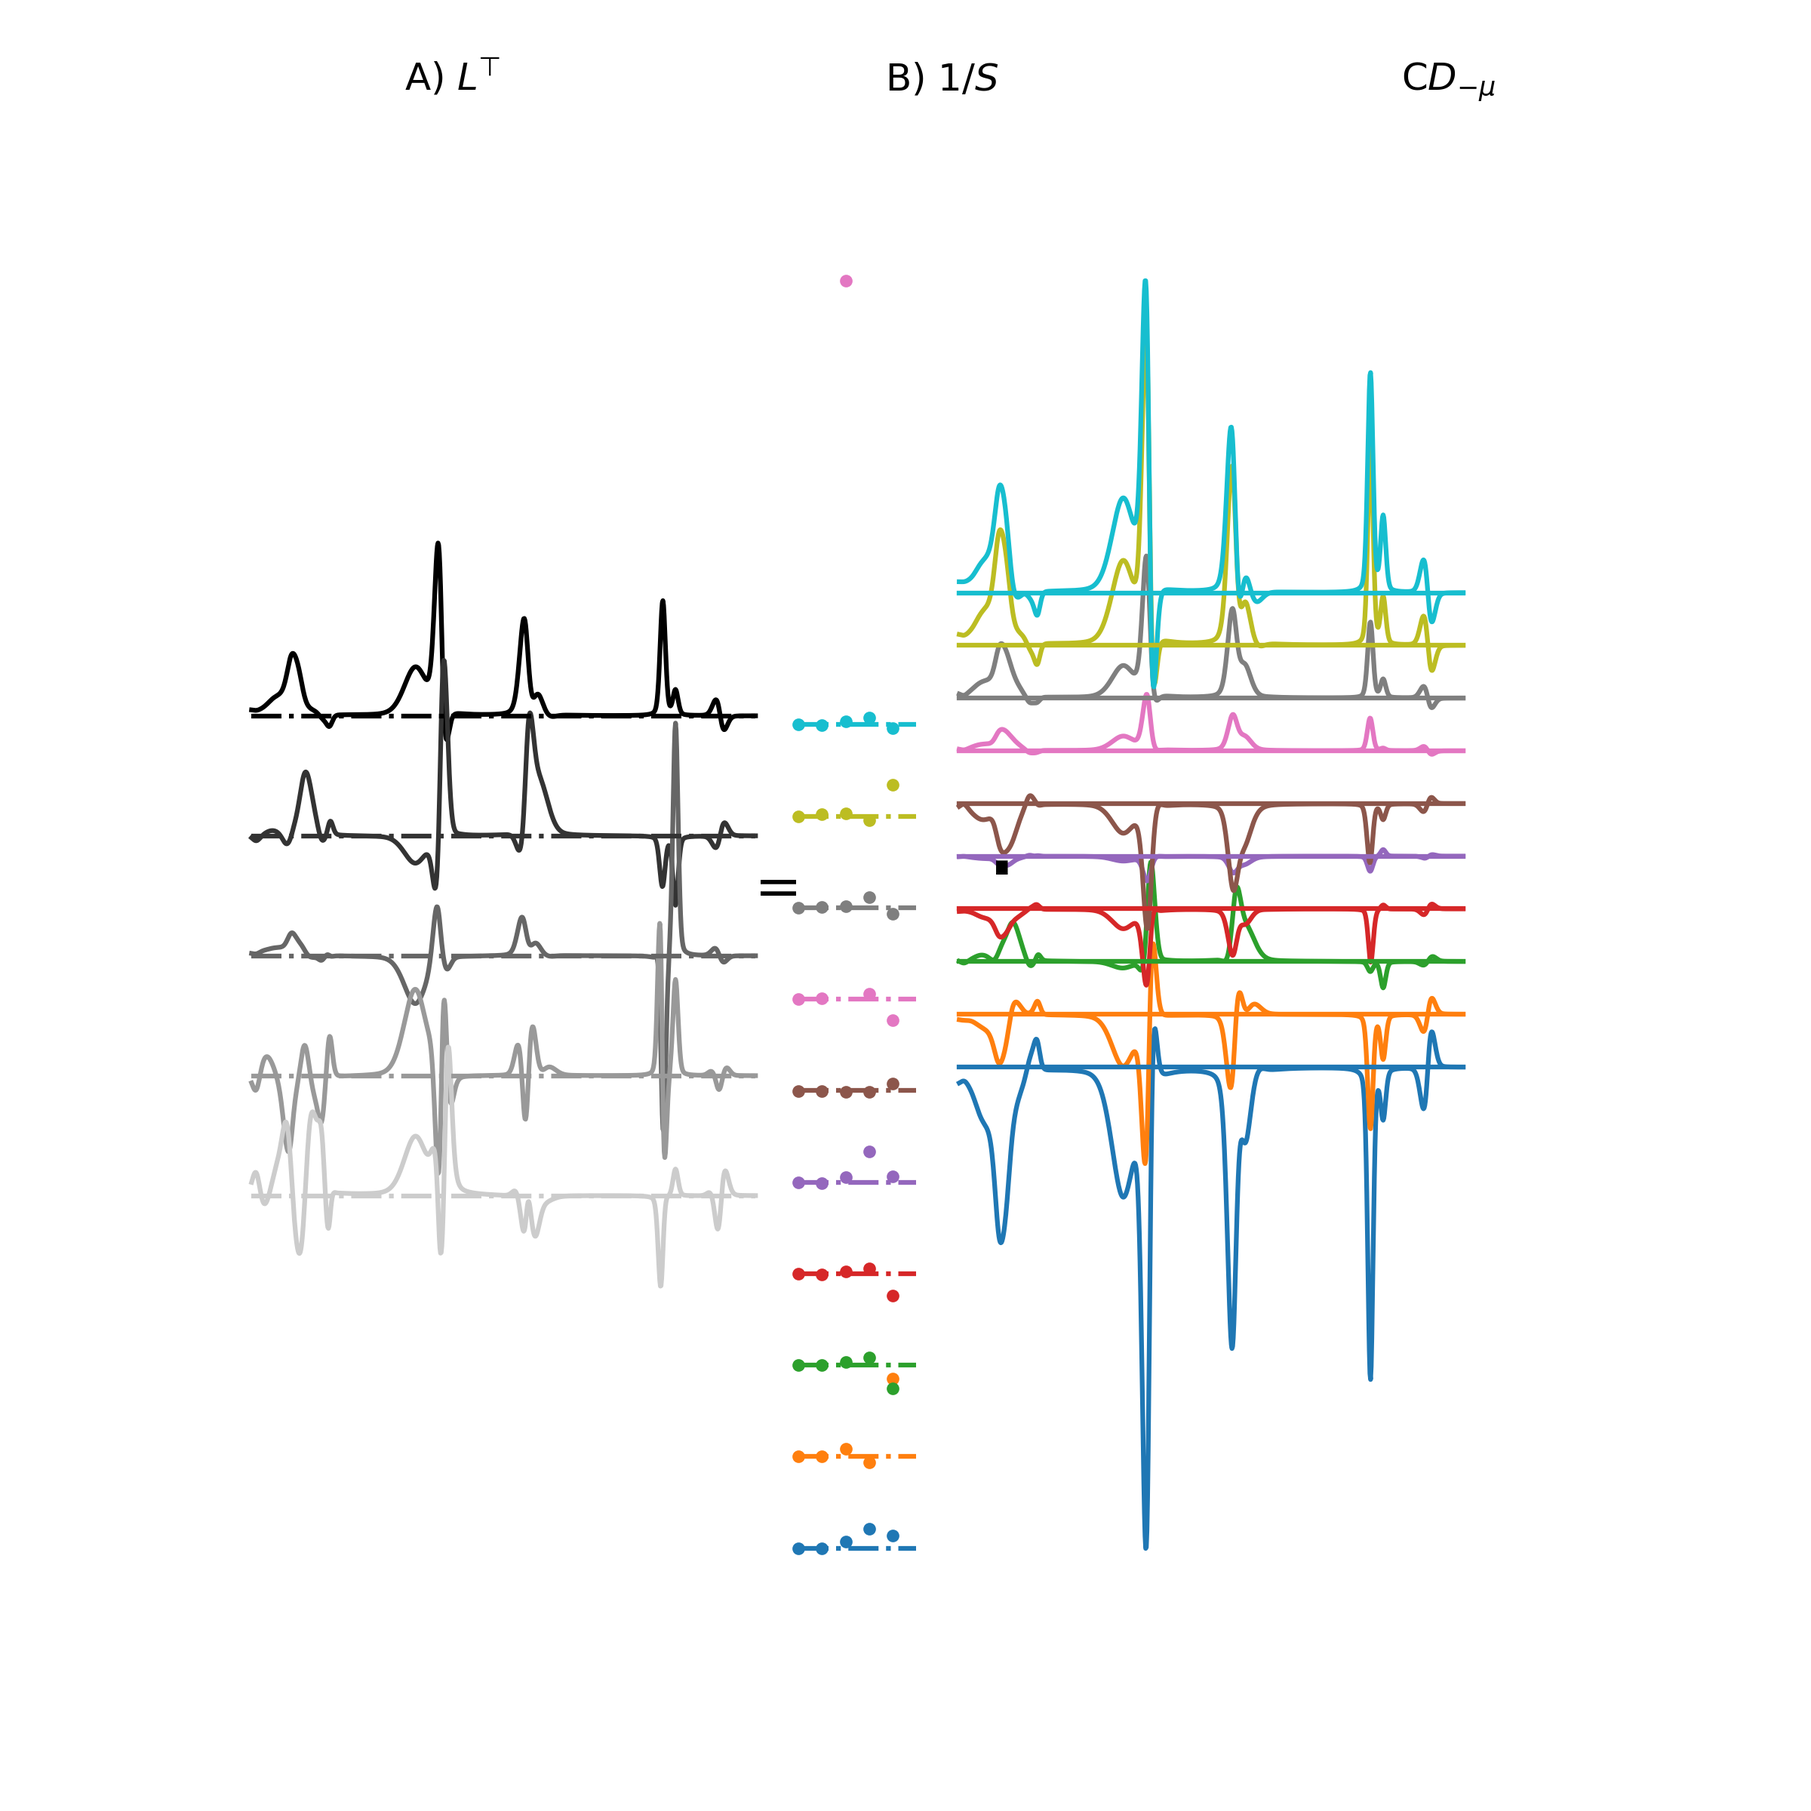
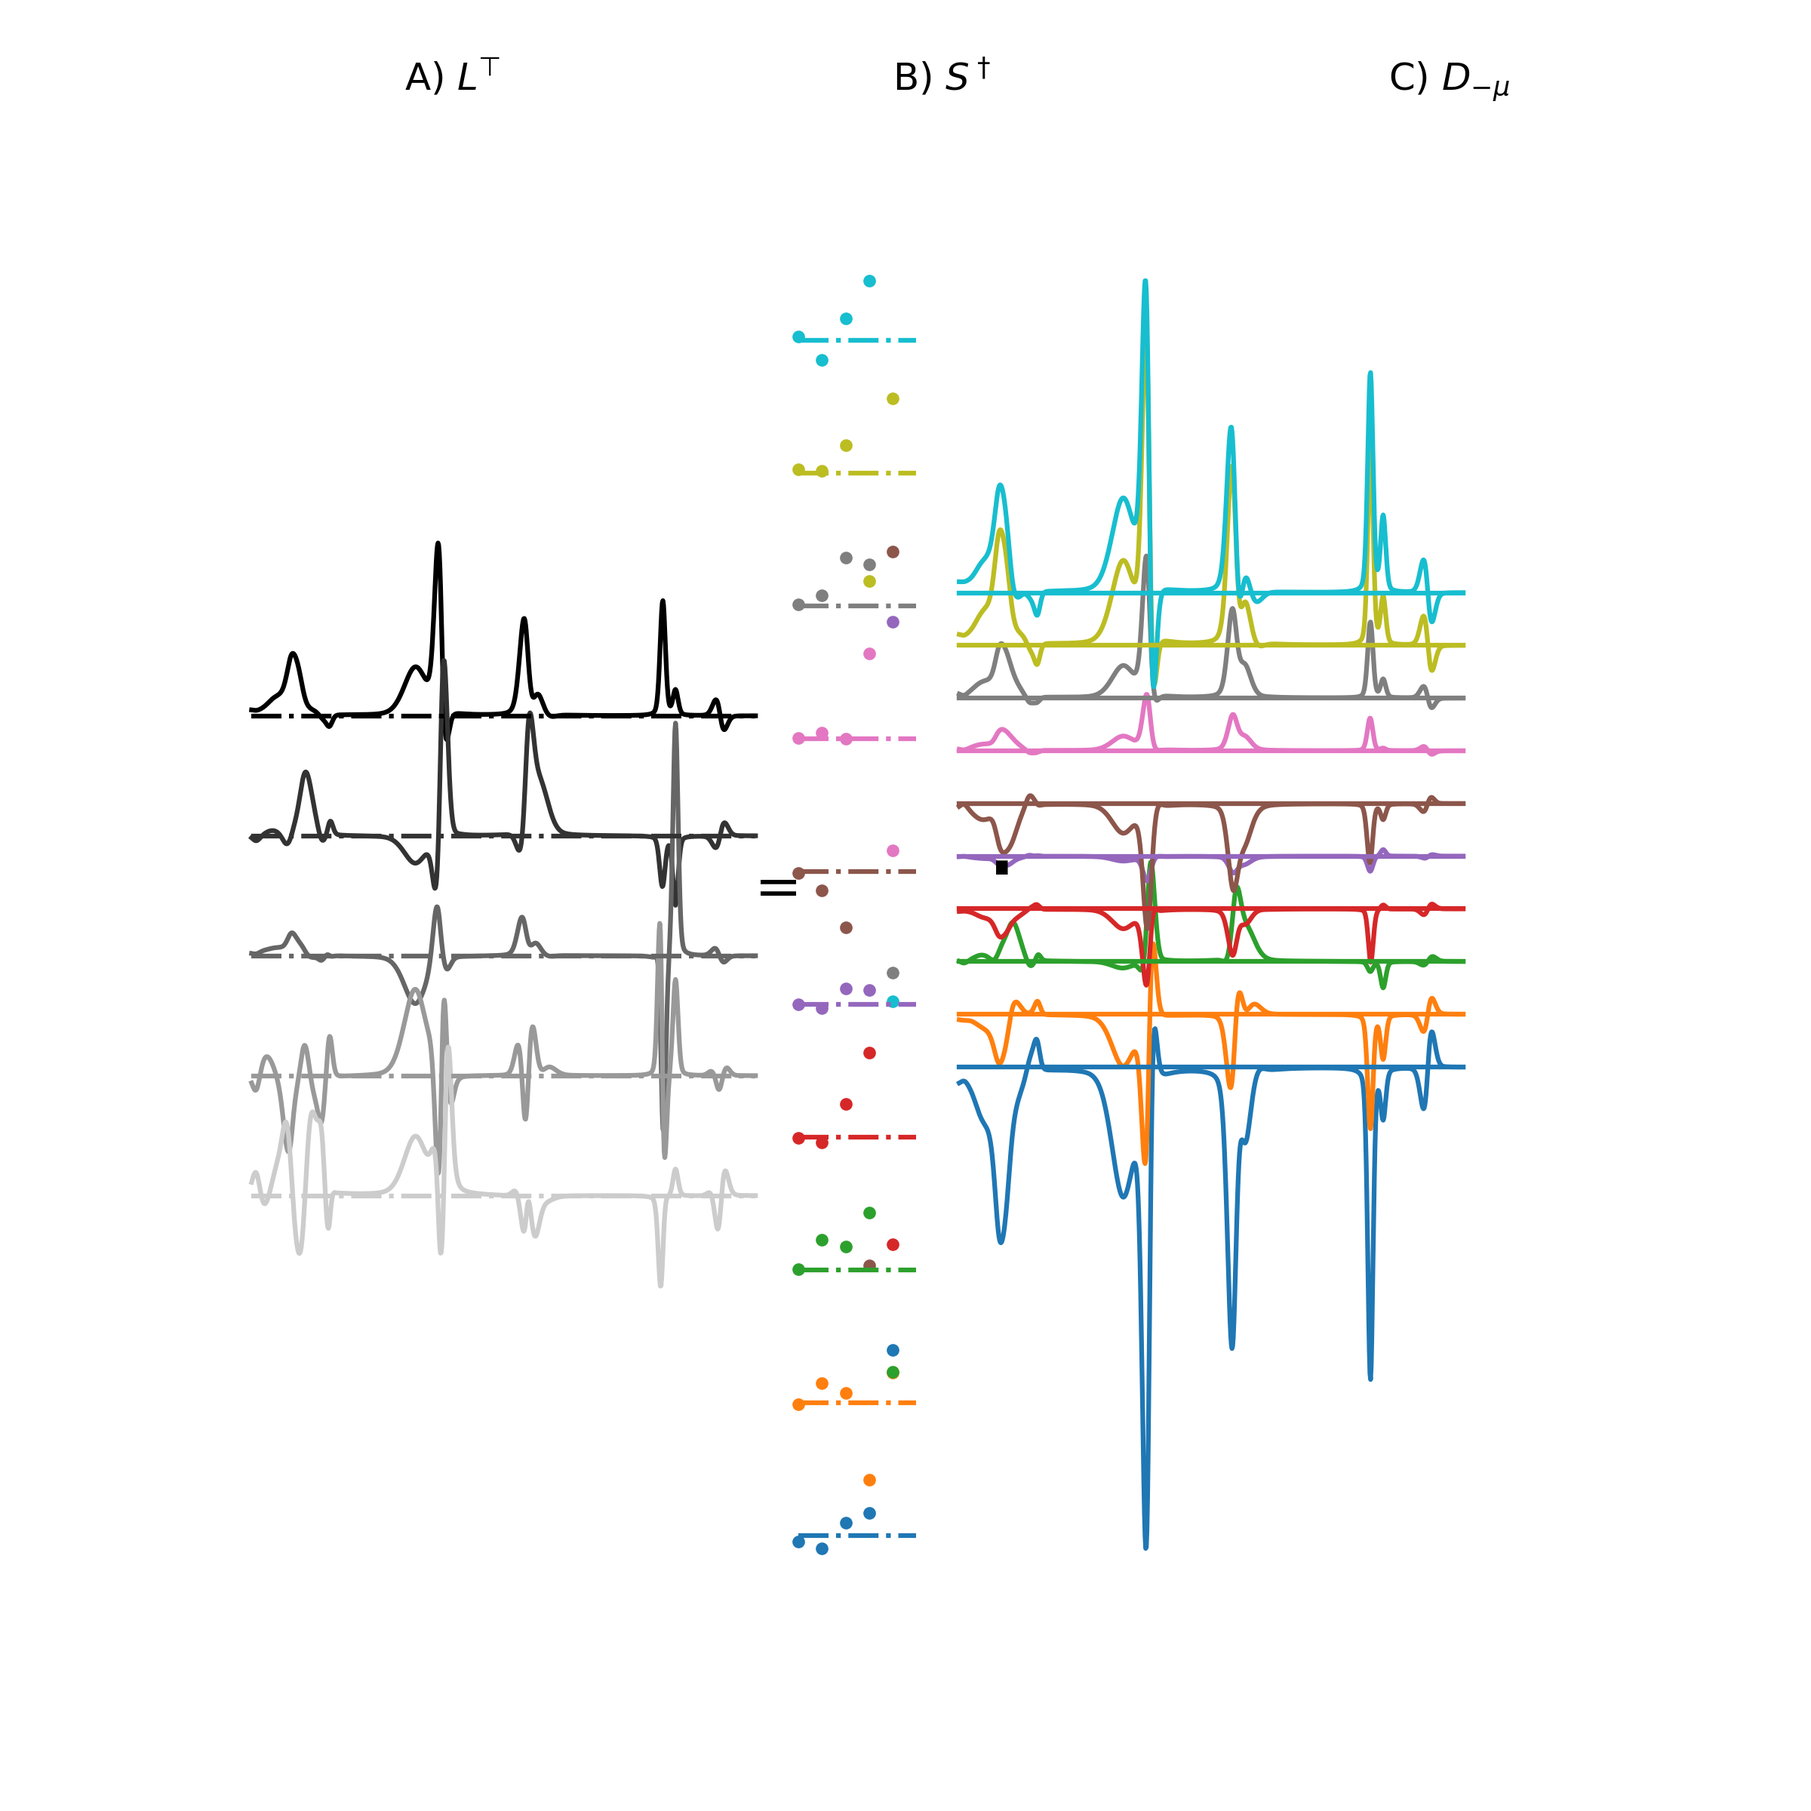
Updated lsdi figure as per trello. Now a function in the NIPALs class.

diff --git a/src/local_nipals.py b/src/local_nipals.py
@@ -99,6 +99,7 @@ class nipals:
         self.mConS = np.copy(self.pCon)
         self.optSF = np.empty(self.N_PC)
         self.optSF[:] = np.nan
+        self.Eigenvalue = np.copy(self.optSF)
         
         self.fig_Size = [8,8]
         self.fig_Resolution = 300
@@ -378,6 +379,7 @@ class nipals:
             self.rE[iPC + 1, :] = np.sum(
                 self.r[iPC + 1] ** 2, 1
             )  # calculate residual variance
+            self.Eigenvalue[iPC] = ml**2 #store eigenvalue (square of norm)
             self.prepare_Data()
             
     def prepare_Data(self):
@@ -398,8 +400,8 @@ class nipals:
         self.LEigenvectors4plot = (LEigenvectors4plot.transpose() + LEig_spacing).transpose()
         self.LEig0lines = np.tile([LEig_spacing],(2,1))
 
-        iLEigenvectors4plot = 1/self.LEigenvector[self.fig_k,:]
-        iLEigenvectors4plot = iLEigenvectors4plot[:,self.fig_i]
+        iLEigenvectors4plot = self.LEigenvector[self.fig_k,:]
+        iLEigenvectors4plot = iLEigenvectors4plot[:,self.fig_i]/self.Eigenvalue[self.fig_i]**0.5
         iLEig_spacing = (np.arange(np.shape(self.fig_k)[0]))*(np.mean(np.max(iLEigenvectors4plot,axis=1))*1)
         self.iLEigenvectors4plot = (iLEigenvectors4plot.transpose() + iLEig_spacing).transpose()
         self.iLEig0lines = np.tile([iLEig_spacing],(2,1))
@@ -537,7 +539,7 @@ class nipals:
         
         
         axDSLT[v_Ord[0]].annotate(
-            sub_Fig[v_Ord[0]]+"$D_{-\mu}$",
+            sub_Fig[v_Ord[0]]+") $D_{-\mu}$",
             xy=(txt_Positions[0]),
             xytext=(txt_Positions[0]),
             textcoords="figure fraction",
@@ -555,7 +557,7 @@ class nipals:
             horizontalalignment="center",
         )
         if arrangement == "LTSD": 
-            s_Str = sub_Fig[v_Ord[1]]+") $1/S$"
+            s_Str = sub_Fig[v_Ord[1]]+") $S^\dagger$"
         else:
             s_Str = sub_Fig[v_Ord[1]]+") $S$"
         axDSLT[v_Ord[1]].annotate(
@@ -1137,6 +1139,172 @@ class nipals:
 #        plt.show()
         plt.close()
         
+    def figure_lsdi( self , iPC ):
+        ###################        START lsdiLEigenvectorEqn          #######################
+        # FIGURE for the ith REigenvector equation Li = S^\daggeri*D
+        if iPC is None:
+            iPC = self.fig_i[0]+1 #internal list is python index so need to add 1 for compatibility
+            print('No PC specified for vector figure (figure_dsli). Defaulting to first PC used in matrix figures')
+        figlsdi, axlsdi = plt.subplots(1, 6, figsize=self.fig_Size)
+        axlsdi[0] = plt.subplot2grid((1, 21), (0, 0), colspan=1)
+        axlsdi[1] = plt.subplot2grid((1, 21), (0, 1), colspan=6)
+        axlsdi[2] = plt.subplot2grid((1, 21), (0, 7), colspan=1)
+        axlsdi[3] = plt.subplot2grid((1, 21), (0, 8), colspan=6)
+        axlsdi[4] = plt.subplot2grid((1, 21), (0, 14), colspan=1)
+        axlsdi[5] = plt.subplot2grid((1, 21), (0, 15), colspan=6)
+        
+        c_Inv_Score = self.LEigenvector[:,iPC-1]/self.Eigenvalue[iPC]**0.5
+#TO DO CHECK HOW EXACTLY INVERSION WORKS IN TERMS OF VECTORS
+        PCilims = np.tile(np.array([np.nanmean(c_Inv_Score)-1.96*np.nanstd(c_Inv_Score),
+                                    0,
+                                    np.nanmean(c_Inv_Score)+1.96*np.nanstd(c_Inv_Score)]),
+                          (2,1))
+
+#            transform=transforms.Affine2D().rotate_deg(90) + axlsdi[0].transData,
+        # TODO need different colour per sample
+#        sf = np.mean(np.max(self.X[:,self.fig_k],axis=0)/c_Inv_Score[self.fig_k])
+        axlsdi[1].plot(
+            self.pixel_axis, 
+            4*self.X[:,self.fig_k]/self.Eigenvalue[iPC]**0.5 + c_Inv_Score[self.fig_k],
+            [self.pixel_axis[0],self.pixel_axis[-1]], 
+            np.tile(c_Inv_Score[self.fig_k],(2,1)),
+            "-."
+            ) 
+        axlsdi[0].scatter(
+            np.tile([0],(np.size(self.fig_k),1)),
+            c_Inv_Score[self.fig_k],
+            c = ['#1f77b4', '#ff7f0e', '#2ca02c', '#d62728', '#9467bd', 
+                 '#8c564b', '#e377c2', '#7f7f7f', '#bcbd22', '#17becf'],
+        )
+        axlsdi[0].plot(
+            [-1, 1],
+            PCilims,
+            "--k",
+        )
+        axlsdi[0].set_ylim(axlsdi[1].get_ylim()) #align the scores and data offsets
+        axlsdi[0].annotate(
+            "$L95\%CI$",
+            xy=(0.11, 0.35),
+            textcoords="figure fraction",
+            xycoords="figure fraction",
+            fontsize=self.fig_Text_Size,
+            horizontalalignment="right",
+        )
+        axlsdi[0].annotate(
+            "$0$",
+            xy=(0.11, 0.57),
+            textcoords="figure fraction",
+            xycoords="figure fraction",
+            fontsize=self.fig_Text_Size,
+            horizontalalignment="right",
+        )
+        axlsdi[0].annotate(
+            "$U95\%CI$",
+            xy=(0.11, 0.78),
+            textcoords="figure fraction",
+            xycoords="figure fraction",
+            fontsize=self.fig_Text_Size,
+            horizontalalignment="right",
+        )
+
+        axlsdi[0].annotate(
+            "A) $s^\dagger_{k,i}$",
+            xy=(0.12, 0.95),
+            xytext=(0.12, 0.95),
+            textcoords="figure fraction",
+            xycoords="figure fraction",
+            fontsize=self.fig_Text_Size,
+            horizontalalignment="center",
+        )
+        axlsdi[1].annotate(
+            "B) $d_k$",
+            xy=(0.27, 0.95),
+            xytext=(0.27, 0.95),
+            textcoords="figure fraction",
+            xycoords="figure fraction",
+            fontsize=self.fig_Text_Size,
+            horizontalalignment="center",
+        )
+        axlsdi[3].plot(c_Inv_Score[self.fig_k] * self.X[:,self.fig_k])
+        axlsdi[3].annotate(
+            r"C) $s^\dagger_{k,i} \times d_k$",
+            xy=(0.52, 0.95),
+            xytext=(0.52, 0.95),
+            textcoords="figure fraction",
+            xycoords="figure fraction",
+            fontsize=self.fig_Text_Size,
+            horizontalalignment="center",
+            alpha = 0.95
+        )
+        axlsdi[5].plot(self.REigenvector[iPC - 1, :])
+        axlsdi[5].annotate(
+            "D) $l_i$",
+            xy=(0.8, 0.5),
+            xytext=(0.8, 0.95),
+            textcoords="figure fraction",
+            xycoords="figure fraction",
+            fontsize=self.fig_Text_Size,
+            horizontalalignment="center",
+        )
+
+        axlsdi[2].annotate(
+            r"$s^\dagger_{k,i}\times$d_k",
+            xy=(0, 0.5),
+            xytext=(0.5, 0.52),
+            textcoords="axes fraction",
+            fontsize=self.fig_Text_Size,
+            horizontalalignment="center",
+        )
+        axlsdi[2].annotate(
+            "",
+            xy=(1, 0.5),
+            xytext=(0, 0.5),
+            textcoords="axes fraction",
+            fontsize=self.fig_Text_Size,
+            horizontalalignment="center",
+            arrowprops=dict(arrowstyle="->", connectionstyle="arc3"),
+        )
+        axlsdi[4].annotate(
+            "$\Sigma _{j=1}^{j=n}$",
+            xy=(0, 0.5),
+            xytext=(0.5, 0.52),
+            textcoords="axes fraction",
+            fontsize=self.fig_Text_Size,
+            horizontalalignment="center",
+        )
+        axlsdi[4].annotate(
+            "",
+            xy=(1, 0.5),
+            xytext=(0, 0.5),
+            textcoords="axes fraction",
+            fontsize=self.fig_Text_Size,
+            horizontalalignment="center",
+            arrowprops=dict(arrowstyle="->", connectionstyle="arc3"),
+        )
+
+        if not self.fig_Show_Values: 
+            for iax in range(len(axlsdi)):
+                axlsdi[iax].axis("off")
+            
+        if self.fig_Show_Labels:
+            axlsdi[0].set_ylabel('Scores / Arbitrary')
+            axlsdi[1].set_ylabel(self.fig_Y_Label)
+            axlsdi[1].set_xlabel(self.fig_X_Label)
+            axlsdi[3].set_ylabel('PC Weighted ' + self.fig_Y_Label)
+            axlsdi[3].set_xlabel(self.fig_X_Label)
+            axlsdi[5].set_xlabel(self.fig_X_Label)
+            axlsdi[5].set_ylabel('Weights / Arbitrary')
+
+        figlsdi.savefig(
+                str(images_folder) + "\\" +
+                self.fig_Project + 
+                " lsdi Eqn." + 
+                self.fig_Format, 
+                dpi=self.fig_Resolution
+                )    
+        plt.close()
+#        plt.show()
+
         
     def figure_lpniCommonSignalScalingFactors(self, nPC, xview):
         ###################       START lpniCommonSignalScalingFactors       #######################
@@ -1152,7 +1320,7 @@ class nipals:
             self.figure_lpniCommonSignal(iPC, pixel_axis)
 
         figlpniS, axlpniS = plt.subplots(
-            1, 6, figsize=(8, 8)
+            1, 6, figsize=self.fig_Size
         )  # Extra columns to match spacing in
         for iPC in range(1, nPC):
             iFig = (
@@ -1192,10 +1360,10 @@ class nipals:
                 figlpniS.savefig(images_folder / image_name, dpi=300)
                 plt.close()
                 figlpniS, axlpniS = plt.subplots(
-                    1, 6, figsize=(8, 8)
+                    1, 6, figsize=self.fig_Size
                 )  # Extra columns to match spacing in
 
-        plt.figure(figsize=(8, 8))
+        plt.figure(figsize=self.fig_Size)
         figsmsf = plt.plot(range(2, np.shape(self.optSF)[0] + 1), self.optSF[1:], ".")
         drp = np.add(np.nonzero((self.optSF[2:] - self.optSF[1:-1]) < 0), 2)
         if np.size(drp) != 0:
@@ -1209,7 +1377,7 @@ class nipals:
 
         ###### Plot positive, negative score and common  signals without any  common signal subtraction ######
         figlpniU, axlpniU = plt.subplots(
-            1, 6, figsize=(8, 8)
+            1, 6, figsize=self.fig_Size
         )  # Extra columns to match spacing
         for iFig in range(6):
             axlpniU[iFig] = plt.subplot2grid((1, 6), (0, iFig), colspan=1)
@@ -1249,7 +1417,7 @@ class nipals:
         # and common consitituents
         if ~np.isnan(self.cCon[0, iPC]):
 
-            figlpni, axlpni = plt.subplots(1, 6, figsize=(8, 8))
+            figlpni, axlpni = plt.subplots(1, 6, figsize=self.fig_Size)
             axlpni[0] = plt.subplot2grid((1, 21), (0, 0), colspan=1)
             axlpni[1] = plt.subplot2grid((1, 21), (0, 1), colspan=6)
             axlpni[2] = plt.subplot2grid((1, 21), (0, 7), colspan=1)

diff --git a/src/graphicalPCA.py b/src/graphicalPCA.py
@@ -172,6 +172,7 @@ class graphicalPCA:
         ###################            START sldiscoreEqn             #######################
         iPC = 1
         pca_full_covariance.figure_sldi(iPC)
+        pca_full_covariance.figure_lsdi(iPC)
         ###################             END  sldiscoreEqn             #######################
 
 ### NOTE THIS CODE IS CURRENTLY RETAINED TO PREVENT BREAKING DOWNSTREAM FIGURE PLOTS UNTIL ALL ARE CONVERTED TO CLASS FUNCTIONS ####
@@ -194,98 +195,6 @@ class graphicalPCA:
 
 
  
-        ###################        START lsdiLEigenvectorEqn          #######################
-        # FIGURE for the ith REigenvector equation Li = 1/Si*D
-        figlsdi, axlsdi = plt.subplots(1, 5, figsize=(8, 8))
-        axlsdi[0] = plt.subplot2grid((1, 20), (0, 0), colspan=6)
-        axlsdi[1] = plt.subplot2grid((1, 20), (0, 6), colspan=1)
-        axlsdi[2] = plt.subplot2grid((1, 20), (0, 7), colspan=6)
-        axlsdi[3] = plt.subplot2grid((1, 20), (0, 13), colspan=1)
-        axlsdi[4] = plt.subplot2grid((1, 20), (0, 14), colspan=6)
-
-#        scsf = (
-#            PCilims[0, 2] - PCilims[0, 0]
-#        ) / 100  # scale range of LEigenvectors to display beside data
-        iPC = 1
-        axlsdi[0].plot(
-            np.tile(simplified_fatty_acid_spectra["FAXcal"][[0, 0]][0,][0] - 100, (9, 1)),
-            pca_full_covariance.LEigenvector[0:9, iPC - 1],
-            ".",
-        )
-        axlsdi[0].plot(
-            [simplified_fatty_acid_spectra["FAXcal"][[0, 0]][0,][0] - 110, simplified_fatty_acid_spectra["FAXcal"][[0, 0]][0,][0] - 90],
-            np.tile(PCilims[0, 1], (2, 1)),
-            "k",
-        )  # mean score for ith PC
-        # TODO need different colour per sample
-        axlsdi[0].plot(simplified_fatty_acid_spectra["FAXcal"][[0, 0]][0,], 1.8 * data4plot - 250)
-        axlsdi[0].annotate(
-            "$s_i$",
-            xy=(simplified_fatty_acid_spectra["FAXcal"][[0, 0]][0,][0] - 110, 0.9),
-            xytext=(simplified_fatty_acid_spectra["FAXcal"][[0, 0]][0,][0] - 110, 0.9),
-            textcoords="data",
-            fontsize=12,
-            horizontalalignment="left",
-        )
-        axlsdi[2].plot(pca_full_covariance.LEigenvector[0:9, iPC - 1] * pca_full_covariance.X[:, 0:9])
-        axlsdi[2].annotate(
-            r"$s_i \times d_i$",
-            xy=(0.1, 0.9),
-            xytext=(0.6, 0.9),
-            textcoords="axes fraction",
-            fontsize=12,
-            horizontalalignment="center",
-        )
-        axlsdi[4].plot(pca_full_covariance.REigenvector[iPC - 1, :])
-        axlsdi[4].annotate(
-            "$L$",
-            xy=(0.1, 0.9),
-            xytext=(0.5, 0.9),
-            textcoords="axes fraction",
-            fontsize=12,
-            horizontalalignment="center",
-        )
-
-        axlsdi[1].annotate(
-            r"$\cdot$",
-            xy=(0, 0.5),
-            xytext=(0.5, 0.52),
-            textcoords="axes fraction",
-            fontsize=12,
-            horizontalalignment="center",
-        )
-        axlsdi[1].annotate(
-            "",
-            xy=(1, 0.5),
-            xytext=(0, 0.5),
-            textcoords="axes fraction",
-            fontsize=12,
-            horizontalalignment="center",
-            arrowprops=dict(arrowstyle="->", connectionstyle="arc3"),
-        )
-        axlsdi[3].annotate(
-            "$\Sigma _{o=1}^{o=n}$",
-            xy=(0, 0.5),
-            xytext=(0.5, 0.52),
-            textcoords="axes fraction",
-            fontsize=12,
-            horizontalalignment="center",
-        )
-        axlsdi[3].annotate(
-            "",
-            xy=(1, 0.5),
-            xytext=(0, 0.5),
-            textcoords="axes fraction",
-            fontsize=12,
-            horizontalalignment="center",
-            arrowprops=dict(arrowstyle="->", connectionstyle="arc3"),
-        )
-        for iax in range(5):
-            axlsdi[iax].axis("off")
-
-        figlsdi.savefig(images_folder / "lsdiLEigenvectorEqn.png", dpi=300)
-        plt.close()
-        ###################              END lsdiLEigenvectorEqn             #######################
 
         ###################       START lpniCommonSignalScalingFactors       #######################
         # FIGURE of the scaling factor calculated for subtracting the common signal from the positive
